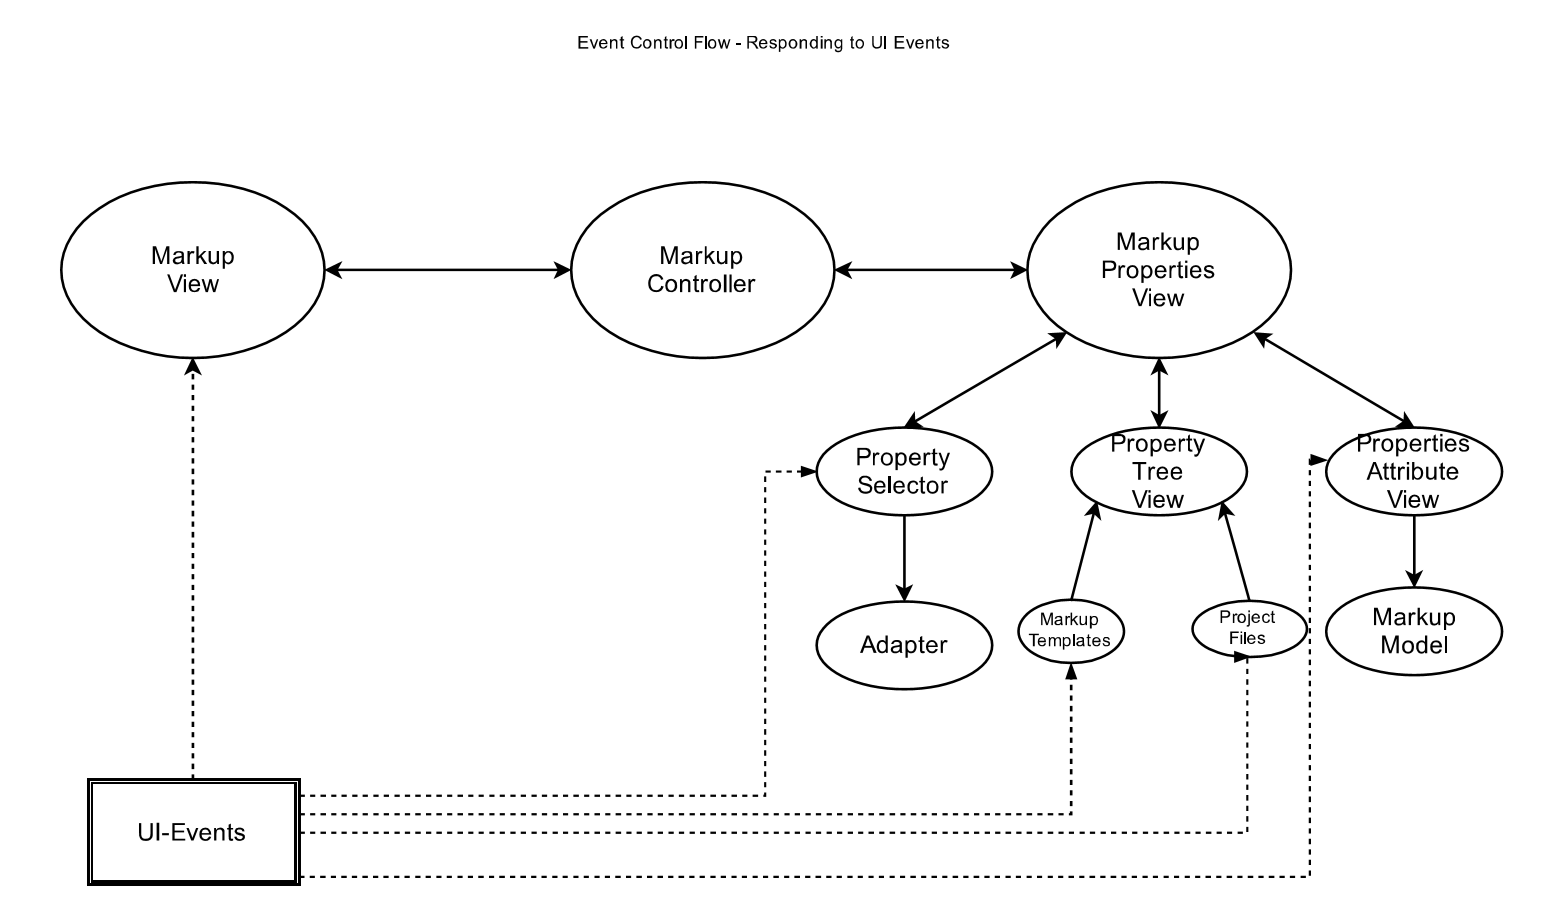
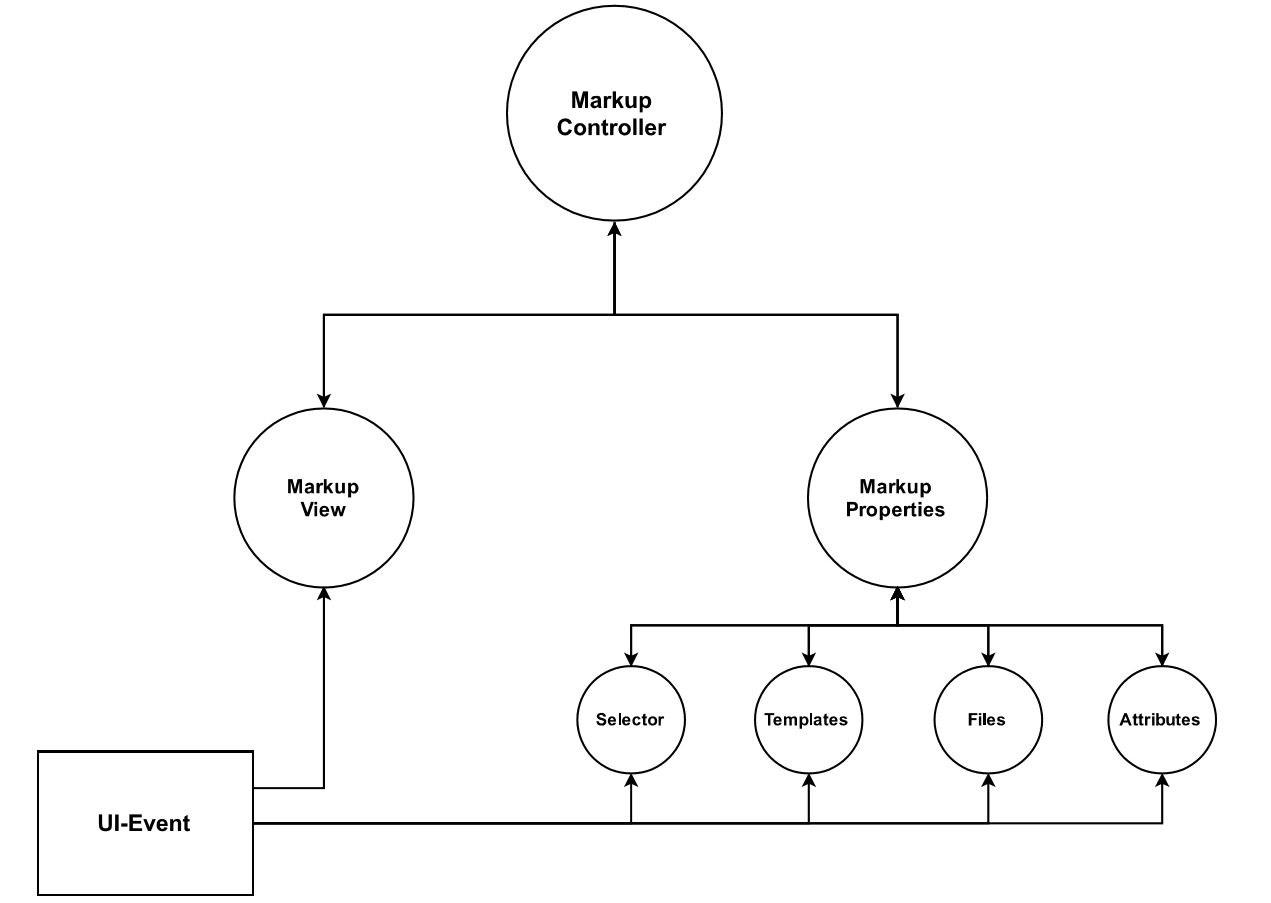
Began working on End-of-Semester Report, running out of time though

diff --git a/End-Of-Semester-Report.md b/End-Of-Semester-Report.md
@@ -1,0 +1,90 @@
+## Implementation
+
+### Control Flow
+
+### Code Snippet (TODO: Rename Category)
+
+Events are made up like such...
+
+```java
+class Event {
+    public final int tag;
+    public final Object data;
+}
+```
+
+An example of event propagation would be the MarkupController, which handles all of the heavy-lifting of the application.
+In the below snippets, you can see how responding to `MarkupProperty` can be handled in an elegant manner.
+
+```java
+observer.onEvent()
+    .map(e -> {
+        Function<Object, Optional<Event>> dispatchHandler;
+        switch (e.tag) {
+            case Event.CREATE_MARKUP:
+                dispatchHandler = this::createMarkup;
+                break;
+            case Event.MARKUP_MUTATION:
+                dispatchHandler = this::markupMutation;
+                break;
+            case Event.MARKUP_SELECTION:
+                dispatchHandler = this::markupSelection;
+                break;
+            case Event.FILE_CHANGE:
+                dispatchHandler = this::fileChange;
+                break;
+            default:
+                dispatchHandler = ignored -> Optional::empty;
+        }
+        return dispatchHandler.apply(e.data);
+    })
+    .filter(Optional::isPresent)
+    .map(Optional::get)
+    .subscribe(onEvent::onNext);
+```
+
+For those unfamiliar with Java 8, the syntax may look unfamiliar, so I will give an overall summary of what is going on here.
+
+`observer` would be an rxJava `Observable`, which allows push-based notifications, when an event is emitted from the source `Observable`.
+By calling `subscribe`, we become an `Observer`, and the callback provided, `onEvent::onNext` which is a method reference to another `Observable`
+that we are pushing events (and therefore propagating), is called on each event emitted.
+
+Operators, like `map`, and `filter`, provide a new `Observable` that, put simply, will perform those actions before passing onwards. So, `map` will take
+the `Event` object, map it to a new `Optional<Event>` object, and `filter` will only emit it's object if and only if it succeeds it's predicate: that
+`Optional::isPresent` (which is a method to determine if the element the `Optional` holds is null or not).
+
+The `dispatchHandler` is more of clarity, to help the reader understand what is going on: `Function` is a Java 8 construct that represents a function that
+allows application. Application meaning "applying an argument" later. A Method Reference can be safely be stored in a `Function`. A `Function` of type
+`Function<T,R>` is a function that takes `T`, and returns `R`. So, `Function<Object, Optional<Event>>` is a function that takes `Object` and returns `Optional<Event>`.
+In the `default` statement, a lambda takes the form `(n0, n1, ... nk) -> { }`, but a single argument lambda does not need parenthesis surrounding it. As well a 
+single line lambda does not need to be wrapped in a block. A lambda expression can also fit within a `Function`.
+
+While this may seem daunting at first, once understood, it makes code a lot more clean and easy to read.
+
+
+#### Reactive MVC
+
+![Event Control Flow](screenshots/EventControlFlow.PNG)
+
+#### Events
+
+##### Create Markup
+
+![](screenshots/CreateMarkupDiagram.PNG)
+
+##### Select Markup
+
+![](screenshots/SelectMarkupDiagram.PNG)
+
+##### Mutate Markup
+
+![](screenshots/MutateMarkupDiagram.PNG)
+
+
+##### File Change
+
+![](screenshots/FileChangeDiagram.PNG)
+
+##### Apply Templates
+
+![](screenshots/ApplyTemplatesDiagram.PNG)

diff --git a/README.md b/README.md
@@ -55,20 +55,21 @@ Powered By: 'highlight.js'
 
 ##### Create Markup
 
-![](screenshots/createMarkupEvent.PNG)
+![](screenshots/CreateMarkupDiagram.PNG)
 
-##### Show Markup
+##### Select Markup
 
-![](screenshots/showMarkupEvent.PNG)
+![](screenshots/SelectMarkupDiagram.PNG)
 
-##### Double and Triple Click
+##### Mutate Markup
 
-![](screenshots/Double_And_Triple_Click_Event.PNG)
+![](screenshots/MutateMarkupDiagram.PNG)
 
-##### Delete Markup
 
-![](screenshots/deleteMarkupEvent.PNG)
+##### File Change
 
-##### Modify Markup
+![](screenshots/FileChangeDiagram.PNG)
 
-![](screenshots/modifyMarkupEvent.PNG)
+##### Apply Templates
+
+![](screenshots/ApplyTemplatesDiagram.PNG)
